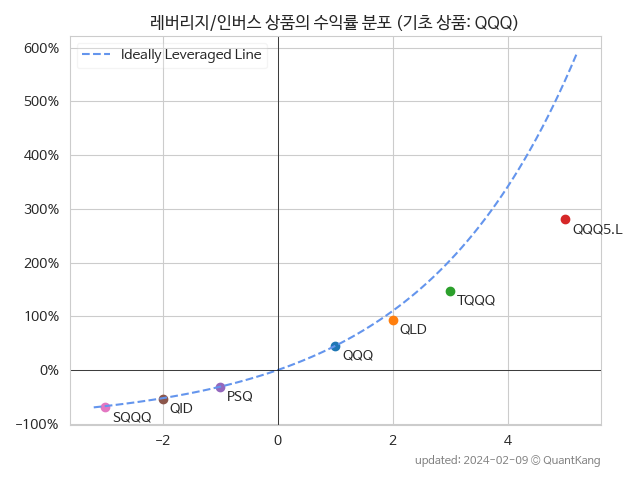
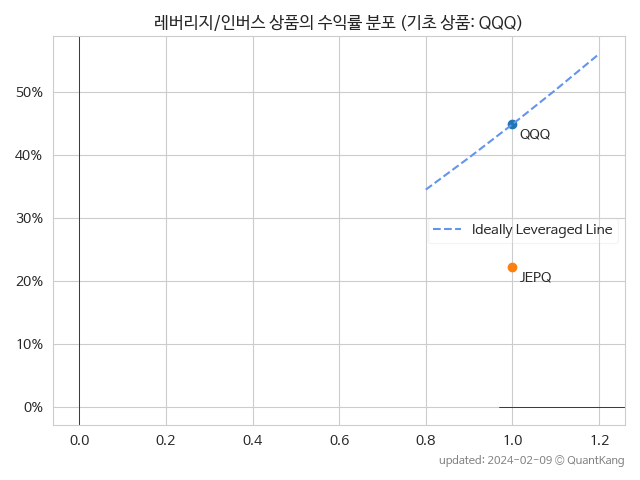
jepq test

diff --git a/_posts/lev/2024-02-09-jepq.md b/_posts/lev/2024-02-09-jepq.md
@@ -1,0 +1,58 @@
+---
+layout: splash
+title: JEPQ 수익률과 비용 (QQQ 1x)
+excerpt: JEPQ의 1년 수익률은 22.2%, 추정 비용은 15.6%입니다.
+header:
+  overlay_color: "#333"
+  show_overlay_excerpt: false
+categories:
+---
+
+| **종목** | **1년** | **편차** | **샤프** | **MDD** | **AvDD** |
+| :------------ | ------: | -----------: | -------: | ------: | -------: |
+| JEPQ | <span style="color: tomato">22.2<small>%</small></span> | 11.2<small>%</small> | 1.98 | -8.8<small>%</small> | -1.6<small>%</small> |
+
+<!-- more -->
+
+<br>
+
+![JEPQ](/lev/images/jepq.png){: .align-center}
+
+> **주요 가격 변동 지표**<small>[^fn_price_metric]</small>
+
+
+| **종목** | **1년** | **편차** | **샤프** | **MDD** | **AvDD** |
+| :------------ | ------: | -----------: | -------: | ------: | -------: |
+| JEPQ | <span style="color: tomato">22.2<small>%</small></span> | 11.2% | 1.98 | -8.8<small>%</small> | -1.6<small>%</small> |
+| JEPQ | <span style="color: tomato">44.9<small>%</small></span> | 16.5% | 2.71 | -10.9<small>%</small> | -2.3<small>%</small> |
+| STD eq<small>[^fn_lev_ideal]</small> | <span style="color: tomato">29.0<small>%</small></span> | 11.2% | 2.58 | -7.5<small>%</small> | -1.5<small>%</small> |
+| MDD eq<small>[^fn_lev_ideal_daily]</small> | <span style="color: tomato">35.0<small>%</small></span> | 13.3% | 2.63 | -8.8<small>%</small> | -1.8<small>%</small> |
+
+<br>
+
+> **추정 비용**<small>[^fn_lev_expense]</small><a id="expense"></a>
+
+JEPQ 상품을 QQQ 상품의 1배 레버리지라 가정하고 분석한 결과입니다.
+
+![JEPQ](/lev/images/jepq_ideal.png){: .align-center}
+
+| **종목** | **변동성비용**[^fn_lev_vd_expense] | **금융비용**[^fn_lev_fn_expense] | **전체비용**[^fn_lev_tt_expense] |
+| :------------ | ------: | -----------: | -------: |
+| JEPQ | 0.0<small>%</small> | 15.6<small>%</small> | 15.6<small>%</small> |
+
+<br>
+
+> **관련 레버리지/인버스 상품의 수익률 분포**
+
+QQQ 상품을 기초로 하는 타 레버리지/인버스 상품과 비교합니다.
+
+![QQQ](/lev/images/qqq_ideal.png){: .align-center}
+
+{% include lev/qqq_md.inc %}
+
+<br>
+> **관련 정보**
+
+- [레버리지/인버스 목록](/lev/){: .btn .btn--info}
+
+{% include commons/footnotes.md %}
